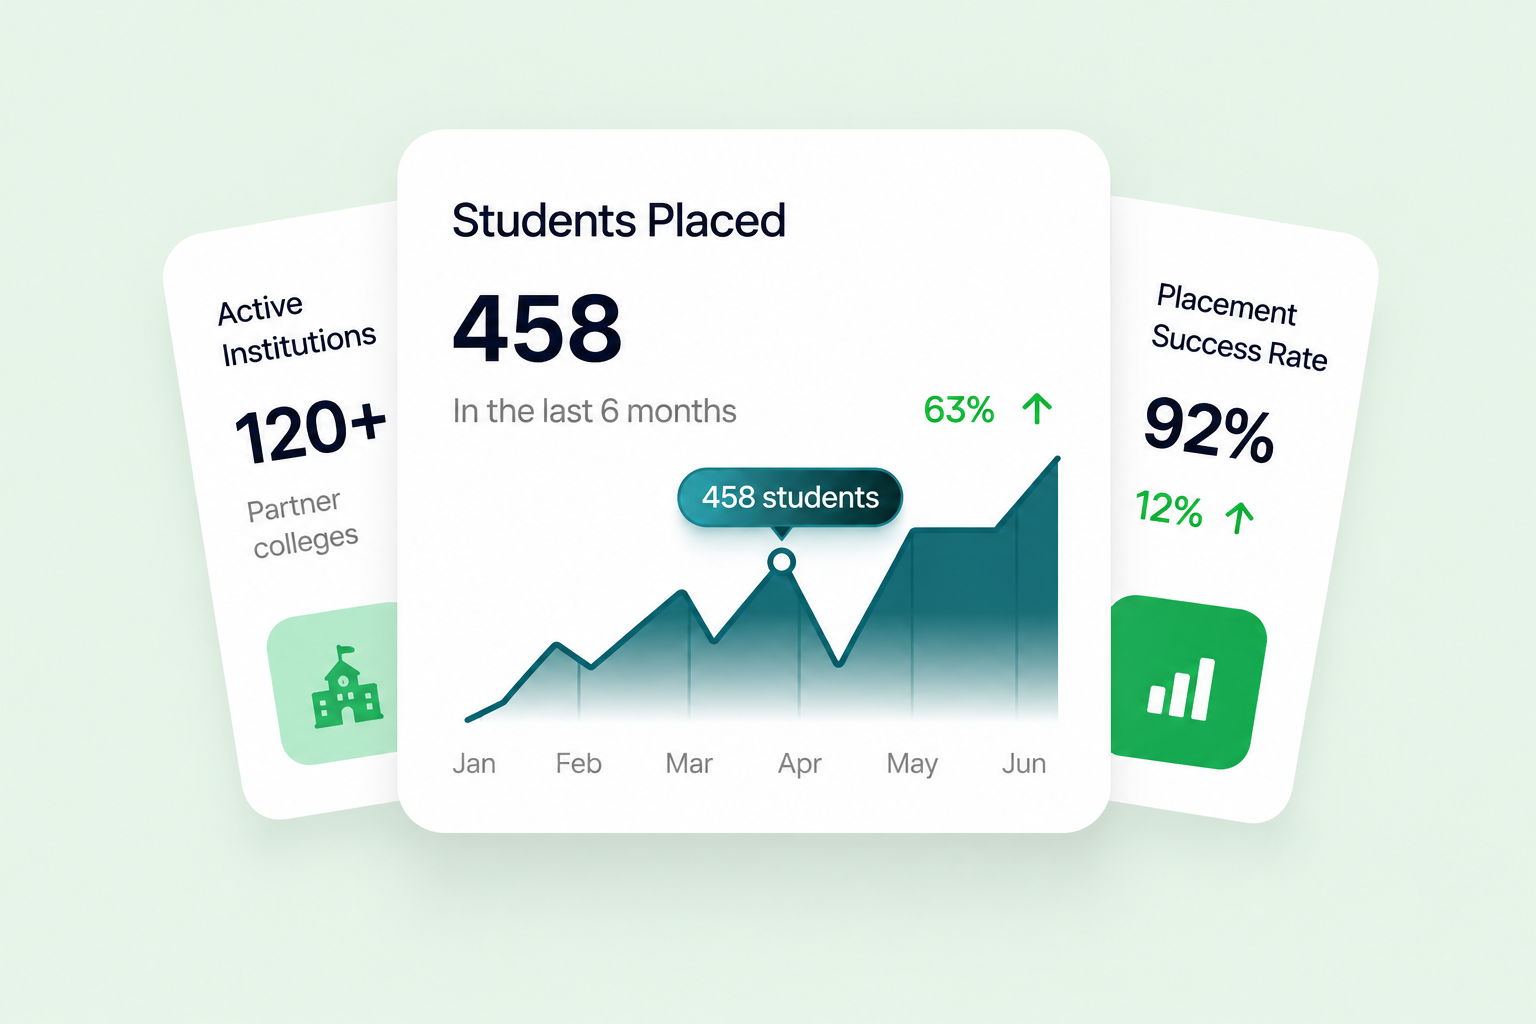
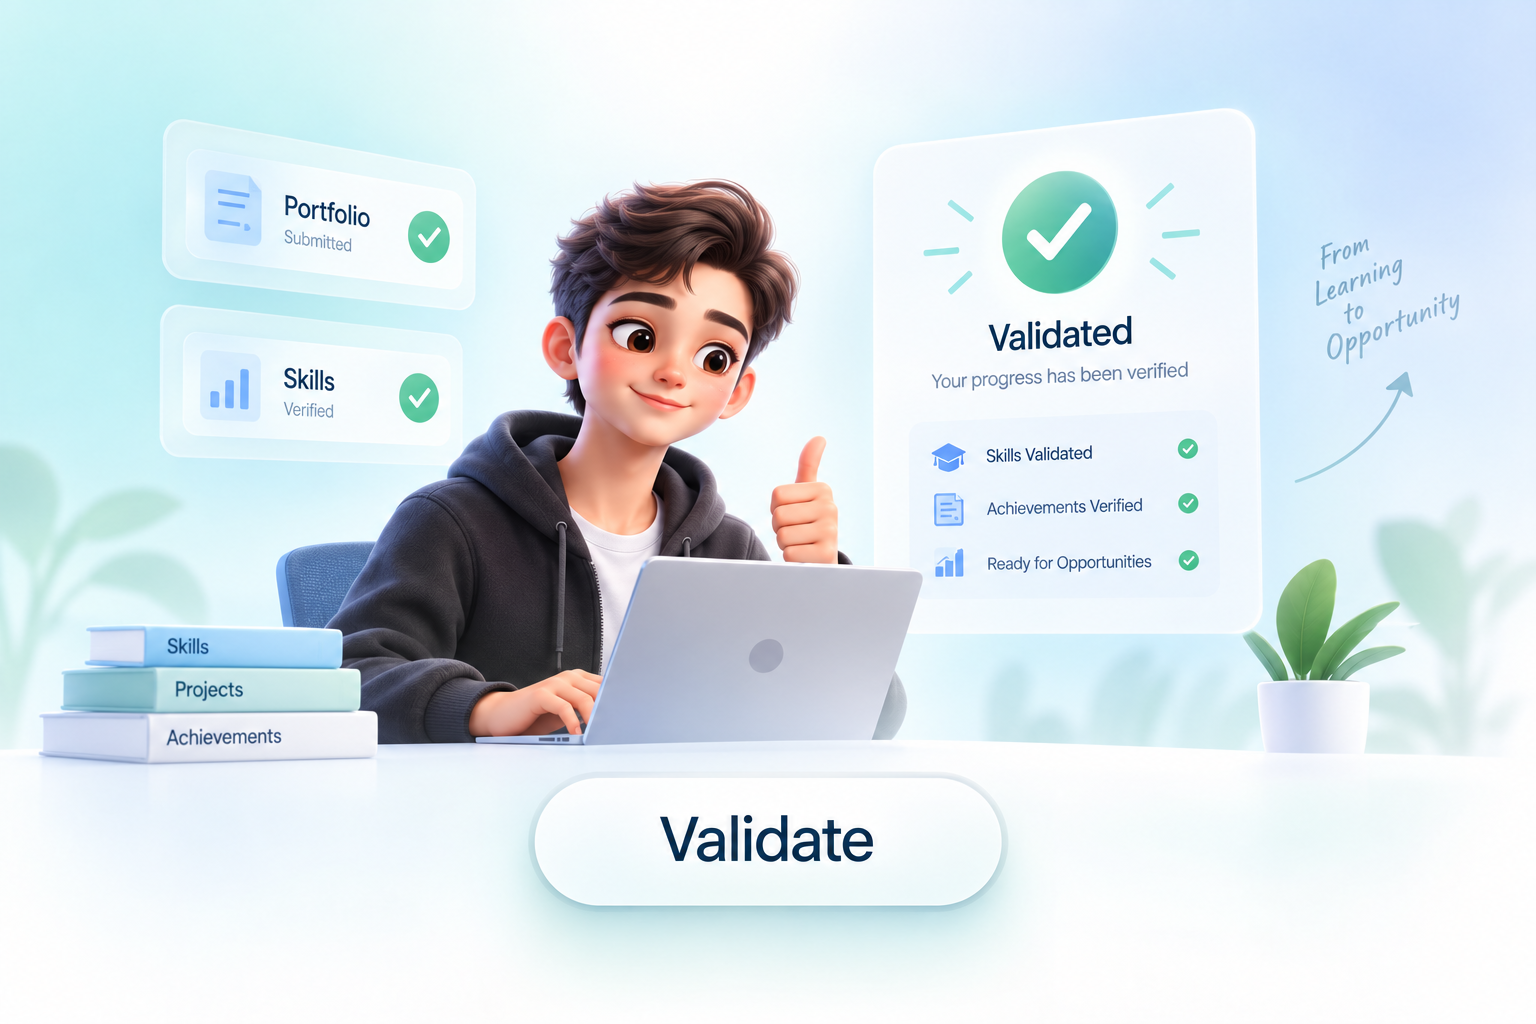
Update AERS styling, hero CTAs, feature cards and images, and scroll effects

diff --git a/src/components/EcosystemSection.tsx b/src/components/EcosystemSection.tsx
@@ -259,33 +259,33 @@ export function EcosystemSection() {
           <CurveArrow className="right-[7%] top-1/2 -translate-y-1/2" flip />
         </div>
 
-        {/* ============ Level 2 — AERS Flagship Programme (large card) ============ */}
+        {/* ============ Level 2 — AERS Flagship Programme (white card with navy border) ============ */}
         <Reveal delay={0.35} className="w-full">
           <motion.div
-            className="relative flex w-full flex-col items-start gap-7 overflow-hidden rounded-[32px] bg-navy p-8 shadow-[0_24px_64px_rgba(15,61,102,0.25)] tb:flex-row tb:items-center tb:gap-10 tb:p-11"
+            className="relative flex w-full flex-col items-start gap-7 overflow-hidden rounded-[32px] border-2 border-navy bg-white p-8 shadow-[0_24px_64px_rgba(15,61,102,0.12)] tb:flex-row tb:items-center tb:gap-10 tb:p-11"
             initial={{ opacity: 0.001, y: 60, scale: 0.96 }}
             whileInView={{ opacity: 1, y: 0, scale: 1 }}
             viewport={{ once: true, margin: '0px 0px -10% 0px' }}
             transition={{ delay: 0.35, duration: 2, ease: EASE }}
             whileHover={{ y: -4 }}
           >
-            <img src={aersLogo} alt="AERS logo" className="relative h-[86px] w-auto shrink-0 object-contain brightness-0 invert" />
-            <span className="relative hidden h-16 w-px bg-white/20 tb:block" aria-hidden />
+            <img src={aersLogo} alt="AERS logo" className="relative h-[86px] w-auto shrink-0 object-contain" />
+            <span className="relative hidden h-16 w-px bg-navy/15 tb:block" aria-hidden />
             <div className="relative flex flex-col gap-1 max-w-[540px]">
               <span className="text-[#2D86FC] text-[13px] font-semibold tracking-wider uppercase tb:hidden">
                 LEVEL 02 — FLAGSHIP SYSTEM
               </span>
-              <h3 className="font-display text-white text-[20px] tb:text-[22px] font-semibold">AERS</h3>
+              <h3 className="font-display text-ink-2 text-[20px] tb:text-[22px] font-semibold">AERS</h3>
               <p
-                className="text-white/90"
+                className="text-gray-1"
                 style={{ fontSize: '16px', lineHeight: '25px', letterSpacing: '-0.38px', fontWeight: 450 }}
               >
                 Applies the framework through Explore, personalised development, structured Transform delivery, evidence and continuous improvement.
               </p>
             </div>
-            <span className="relative ml-auto hidden shrink-0 items-center gap-2.5 rounded-full border border-white/20 bg-white/10 px-5 py-2.5 tb:flex">
-              <span className="h-2 w-2 rounded-full bg-teal" />
-              <span className="text-white" style={{ fontSize: '13px', lineHeight: '17px', letterSpacing: '0.1em', fontWeight: 600 }}>
+            <span className="relative ml-auto hidden shrink-0 items-center gap-2.5 rounded-full border border-navy/15 bg-navy/[0.06] px-5 py-2.5 tb:flex">
+              <span className="h-2 w-2 rounded-full bg-navy" />
+              <span className="text-ink" style={{ fontSize: '13px', lineHeight: '17px', letterSpacing: '0.1em', fontWeight: 600 }}>
                 LEVEL 02 — FLAGSHIP SYSTEM
               </span>
             </span>

diff --git a/src/components/FeaturesSection.tsx b/src/components/FeaturesSection.tsx
@@ -7,28 +7,34 @@ import { WHY_FEATURES } from '../data/content'
 export function FeaturesSection() {
   const [active, setActive] = useState(0)
 
-  // Robust scroll spy to detect which of the 4 cards is closest to the focal point of viewport
+  // Scroll spy to detect active card with robust thresholding & last-card handling
   useEffect(() => {
     const handleScroll = () => {
-      const focalLine = window.innerHeight * 0.4
-      let closestIndex = 0
-      let minDistance = Infinity
+      const vh = window.innerHeight
+      const triggerLine = vh * 0.45
+      let activeIdx = 0
 
-      WHY_FEATURES.forEach((_, idx) => {
-        const el = document.getElementById(`feature-card-${idx}`)
+      for (let i = 0; i < WHY_FEATURES.length; i++) {
+        const el = document.getElementById(`feature-card-${i}`)
         if (el) {
           const rect = el.getBoundingClientRect()
-          // Calculate distance from center/focal line
-          const cardCenter = rect.top + rect.height * 0.35
-          const distance = Math.abs(cardCenter - focalLine)
-          if (distance < minDistance) {
-            minDistance = distance
-            closestIndex = idx
+          if (rect.top <= triggerLine) {
+            activeIdx = i
           }
         }
-      })
+      }
 
-      setActive(closestIndex)
+      // Check last card (Evolve): if user reaches it or it's prominently in view
+      const lastIdx = WHY_FEATURES.length - 1
+      const lastEl = document.getElementById(`feature-card-${lastIdx}`)
+      if (lastEl) {
+        const lastRect = lastEl.getBoundingClientRect()
+        if (lastRect.top <= vh * 0.65 && lastRect.bottom > 100) {
+          activeIdx = lastIdx
+        }
+      }
+
+      setActive(activeIdx)
     }
 
     window.addEventListener('scroll', handleScroll, { passive: true })

diff --git a/src/data/content.ts b/src/data/content.ts
@@ -5,9 +5,11 @@ import understandImg from '../assets/understand.png'
 import validateImg from '../assets/validate.png'
 import improveImg from '../assets/improve.png'
 import evolveImg from '../assets/evolve.png'
-import studentsImg from '../assets/students.png'
+import graduatesImg from '../assets/graduates.png'
 import listenFeatureImg from '../assets/listen-feature.png'
+import understandFeatureImg from '../assets/understand-feature.png'
 import validateFeatureImg from '../assets/validate-feature.png'
+import improveFeatureImg from '../assets/improve-feature.png'
 
 /** All content extracted verbatim from https://zono.framer.ai/ */
 
@@ -213,7 +215,7 @@ export const WHY_FEATURES = [
   {
     title: 'Understand',
     desc: 'Identify patterns, strengths, gaps and differing stakeholder perspectives.',
-    img: 'https://framerusercontent.com/images/Bd0e897JJbD4ONh9FbDvVrSsM.png?scale-down-to=1024',
+    img: understandFeatureImg,
   },
   {
     title: 'Validate',
@@ -223,7 +225,12 @@ export const WHY_FEATURES = [
   {
     title: 'Improve',
     desc: 'Translate insights into focused, practical institutional priorities.',
-    img: studentsImg,
+    img: improveFeatureImg,
+  },
+  {
+    title: 'Evolve',
+    desc: 'Review progress, learn from what works, and continuously strengthen the system to create better outcomes over time.',
+    img: graduatesImg,
   },
 ] as const
 

diff --git a/src/components/Hero.tsx b/src/components/Hero.tsx
@@ -1,6 +1,4 @@
 import { motion } from 'framer-motion'
-import { Play } from 'lucide-react'
-import { ButtonFilled, ButtonOutline } from './shared/ui'
 import { EASE } from './shared/Reveal'
 import { HeroCollage } from './HeroCollage'
 
@@ -48,25 +46,6 @@ export function Hero() {
               frameworks, technology and verified evidence.
             </motion.p>
           </div>
-
-          <motion.div
-            className="flex flex-wrap items-center justify-center gap-4"
-            initial={{ opacity: 0.001, y: 80, scale: 0.9 }}
-            animate={{ opacity: 1, y: 0, scale: 1 }}
-            transition={{ delay: 0.3, duration: 2, ease: EASE }}
-          >
-            <ButtonFilled href="#aers-ecosystem">Explore AERS</ButtonFilled>
-            <ButtonOutline
-              href="#roadmap"
-              icon={
-                <span className="flex h-[22px] w-[22px] items-center justify-center rounded-full bg-teal/10">
-                  <Play className="h-3 w-3 fill-teal text-teal" />
-                </span>
-              }
-            >
-              See how it works
-            </ButtonOutline>
-          </motion.div>
         </div>
 
         {/* Full-width blue student collage — occupies the lower half */}

diff --git a/src/App.tsx b/src/App.tsx
@@ -8,7 +8,6 @@ import { ComparisonSection } from './components/ComparisonSection'
 import { FeaturesSection } from './components/FeaturesSection'
 import { AudienceSection } from './components/AudienceSection'
 import { TransformJourneySection } from './components/TransformJourneySection'
-import { GuaranteeSection } from './components/GuaranteeSection'
 import { FAQ } from './components/FAQ'
 import { Footer } from './components/Footer'
 
@@ -16,7 +15,7 @@ import { Footer } from './components/Footer'
  * ASV site — section order:
  * Hero → About → What Changes → AERS Ecosystem → Understand First (AudienceSection) →
  * 16-Week Transform Journey → Booking → Comparison → Features (See the complete picture) →
- * Guarantee → FAQ → Footer
+ * FAQ → Footer
  */
 export default function App() {
   return (
@@ -32,7 +31,6 @@ export default function App() {
         <BookingSection />
         <ComparisonSection />
         <FeaturesSection />
-        <GuaranteeSection />
         <FAQ />
       </main>
       <Footer />

diff --git a/src/components/LearningSection.tsx b/src/components/LearningSection.tsx
@@ -21,7 +21,7 @@ export function LearningSection() {
         <div className="flex flex-col items-center gap-4">
           <Reveal delay={0.1}>
             <SectionHeading>
-              The AERS <span className="text-[#2D86FC]">Difference</span>
+              The ASV <span className="text-[#2D86FC]">Difference</span>
             </SectionHeading>
           </Reveal>
           <Reveal delay={0.15}>
